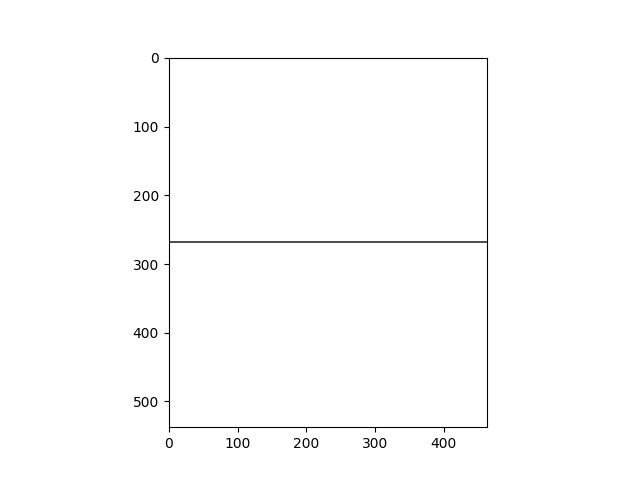
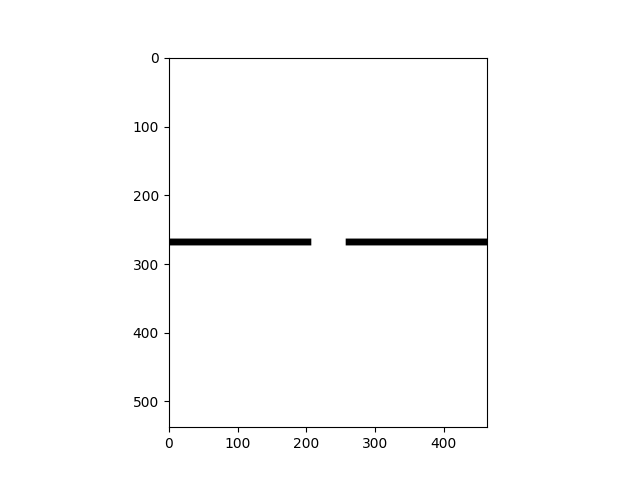
done

Changed region(s): [[0.25, 0.4688, 0.7812, 0.5312]]

diff --git a/assignment2/task4c.py b/assignment2/task4c.py
@@ -20,20 +20,18 @@ if __name__ == "__main__":
     # START YOUR CODE HERE ### (You can change anything inside this block)
 
     #im_centerx, im_centery = im.shape//2
-    start_rm = 4
-    end_rm = 28
-    start = 207
-    end = 255
-    im_centerx = im.shape[1]//2
-    im_centery = im.shape[0]//2
+   
     kernel = np.ones(im.shape)
-
+    measured_y = 269
+    measured_x_center = 232
+    measured_x_max = 261
+    #the values on the end are changed to test the best solution we could find
+    diff_x = measured_x_max-measured_x_center -4 
+    spike = 5 
     #setting the zero value for the kernel
 
-#     kernel[im_centery-start_rm //2: im_centery+start_rm //2] = 0
-#     kernel[im_centery-start_rm//2: im_centery+start_rm //2, im_centerx-end_rm: im_centerx+end_rm] = 1
-
-    kernel[im_centery-1:im_centery + 1] = 0
+    kernel[measured_y-spike:measured_y + spike] = 0
+    kernel[measured_y-spike:measured_y+spike,measured_x_center-diff_x:measured_x_center+diff_x] = 1
     #kernel[start: im_centery+start, im_centerx-end: im_centerx+end] = 1
 
 
@@ -42,11 +40,9 @@ if __name__ == "__main__":
     plt.clf()
     #shifting the kernel
 
-    #kernel = np.fft.fftshift(kernel)
-
     im_fft = np.fft.fft2(im)
-
-    im_conv = im_fft*kernel
+    kernel_shift = np.fft.fftshift(kernel)
+    im_conv = im_fft*kernel_shift
 
     im_filtered = np.fft.ifft2(im_conv).real
 
@@ -55,46 +51,6 @@ if __name__ == "__main__":
     plt.show()
     plt.savefig(utils.image_output_dir.joinpath("4c_test.png"))
 
-#     im_centerx = im.shape[0]//2
-#     im_centery = im.shape[1]//2
-#     im_filtered = im
-#     im_filtered = np.fft.fft2(im_filtered)
-
-
-#     kernel = np.ones(im.shape)
-#     spike_height = 4  # Lines are barely visible at < 4
-#     image_center_x = im.shape[1] // 2
-#     image_center_y = im.shape[0] // 2
-#     center_width = 28  # Lines are visible for > 28
-
-#     kernel[image_center_y - spike_height //
-#            2:image_center_y + spike_height // 2] = 0
-#     kernel[image_center_y - spike_height // 2:image_center_y + spike_height //
-#            2, image_center_x - center_width:image_center_x + center_width] = 1
-#     kernel[0:5,0:5] = 0
-#     print(kernel)
-#     plt.imshow(kernel, cmap="gray")
-#     plt.show()
-#     kernel = np.fft.fftshift(kernel)
-
-#     fft_im = np.fft.fft2(im)
-
-    # Note that this is not matrix multiplication, only point-vise multiplication
-    # For matrix multiplication, use np.matmul(..)
-#     fft_im_filtered = fft_im * kernel
-#     filt_im = np.fft.ifft2(fft_im_filtered).real
-#     plt.imshow(filt_im, cmap="gray")
-#     plt.show()
-    # rows, cols = im_filtered.shape
-    
-    # im_filtered = np.fft.ifft2(fft_im).real
-    # plt.imshow(im_filtered)
-    # plt.show()
-    #im_filtered = np.fft.fftshift(im_filtered)
-    #im_filtered = np.abs(im_filtered)
-    #print(im_filtered.shape)
-    
-    #plt.imshow(im_filtered) #used to find the spikes.
-    #plt.show()
+#     
     ### END YOUR CODE HERE ###
-    #utils.save_im("moon_filtered1.png", utils.normalize(im_filtered))
+    utils.save_im("moon_filtered1.png", utils.normalize(im_filtered))
